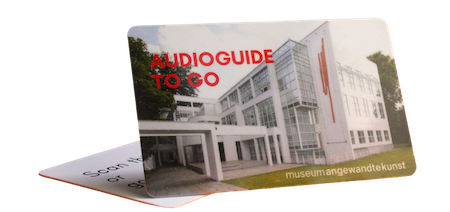
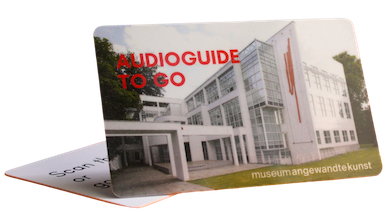
flotaing guide size fixed

Changed region(s): [[0.0, 0.0849, 0.9948, 0.9906]]

diff --git a/on-site-campus-tours-guide.html b/on-site-campus-tours-guide.html
@@ -94,9 +94,7 @@
 
     <!-- ./Icons 	-->
 
-    <!-- Google Fonts -->
-    <!--<link href="https://fonts.googleapis.com/css?family=Open+Sans:300,300i,400,400i,600,600i,700,700i|Raleway:300,300i,400,400i,500,500i,600,600i,700,700i|Poppins:300,300i,400,400i,500,500i,600,600i,700,700i"
-          rel="stylesheet">-->
+
 
     <!-- Vendor CSS Files -->
     <link href="assets/vendor/aos/aos.css" rel="stylesheet">
@@ -109,6 +107,7 @@
 
     <!-- Template Main CSS File -->
     <link href="assets/css/style-min.css" rel="stylesheet">
+    <link href="assets/css/custom.css" rel="stylesheet">
 
     <!-- =======================================================
     * Template Name: Dewi - v4.6.0
@@ -189,21 +188,7 @@
 
     </div>
 </header><!-- End Header -->
-<!-- ======= Breadcrumbs ======= -->
-<section class="breadcrumbs">
-    <div class="container">
 
-        <div class="d-flex justify-content-between align-items-center">
-            <h2>Audio guides for on-site campus tours</h2>
-            <ol>
-                <li><a href="index.html">Home</a></li>
-                <li>On-site campus tours</li>
-            </ol>
-        </div>
-
-    </div>
-</section><!-- End Breadcrumbs -->
-<!-- ======= About Section ======= -->
 <!-- Request a sample-button only visible in smartphones -->
 <section class="d-lg-none">
 
@@ -217,16 +202,34 @@
     </div>
 </section>
 <!-- End Request a sample-button only visible in smartphones  -->
+<!-- ======= Hero Section ======= -->
+<section id="hero3">
+    <div class="hero-container" data-aos="fade-up" data-aos-delay="150">
 
+        <h1>Digital campus tour guide
+        </h1>
+        <h2>College tour card for in-person campus visits</h2>
+
+        <div class="d-flex">
+
+            <a href="https://vimeo.com/714924523" class="glightbox btn-watch-video"><i class="bi bi-play-circle"></i><span>Watch the video</span></a>
+
+        </div>
+        <br><br><br>
+        <div class="align-center d-none d-lg-block">
+            <img src="assets/img/audioguide-campus.png"  width="400" height="350" alt="Nubart's Internet-based tour guide system for plant, facility and factory tours">
+        </div>
+    </div>
+</section><!-- End Hero -->
+<!-- ======= About Section ======= -->
 <section id="about" class="about">
     <div class="container" data-aos="fade-up">
 
         <div class="row">
 
             <div class="col-lg-6 video-box align-self-baseline" data-aos="zoom-in" data-aos-delay="100">
-                <br>
-                <img src="assets/img/web-campus.jpg" class="img-fluid" alt="">
-
+                <br> <img src="assets/img/web-campus.jpg" class="img-fluid" alt="">
+                <a href="https://vimeo.com/714924523" class="glightbox play-btn mb-4"></a>
             </div>
 
             <div class="col-lg-6 pt-3 pt-lg-0 content">

diff --git a/assets/css/custom.css b/assets/css/custom.css
@@ -432,6 +432,108 @@ a {
 }
 
 /*--------------------------------------------------------------
+# Hero Section for Campus tours
+--------------------------------------------------------------*/
+#hero3 {
+  width: 100%;
+  height: 100vh;
+  background: url("/assets/img/hero3-bg.jpg") top center;
+  background-size: cover;
+  position: relative;
+  padding: 0;
+}
+#hero3:before {
+  content: "";
+  background: rgba(13, 20, 26, 0.5);
+  position: absolute;
+  bottom: 0;
+  top: 0;
+  left: 0;
+  right: 0;
+}
+#hero3 .hero-container {
+  position: absolute;
+  bottom: 0;
+  top: 0;
+  left: 0;
+  right: 0;
+  display: flex;
+  justify-content: center;
+  align-items: center;
+  flex-direction: column;
+  text-align: center;
+}
+#hero3 h1 {
+  margin: 0 0 10px 0;
+  font-size: 48px;
+  font-weight: 700;
+  line-height: 56px;
+  text-transform: uppercase;
+  color: #fff;
+}
+#hero3 h2 {
+  color: #eee;
+  margin-bottom: 50px;
+  font-size: 24px;
+}
+#hero3 .btn-get-started {
+  font-family: "Open Sans", sans-serif;
+  text-transform: uppercase;
+  font-weight: 500;
+  font-size: 14px;
+  display: inline-block;
+  padding: 10px 35px 10px 35px;
+  border-radius: 4px;
+  transition: 0.5s;
+  color: #fff;
+  background: #53D3C5;
+  border: 2px solid #53D3C5;
+}
+#hero3 .btn-get-started:hover {
+  border-color: #fff;
+  background: rgba(255, 255, 255, 0.1);
+}
+#hero3 .btn-watch-video {
+  font-size: 16px;
+  display: inline-block;
+  transition: 0.5s;
+    margin-right: 8px;
+  margin-left: 15px;
+  color: #fff;
+  display: inline-flex;
+  align-items: center;
+  justify-content: center;
+}
+#hero3 .btn-watch-video i {
+  line-height: 0;
+  color: #fff;
+  font-size: 32px;
+  transition: 0.3s;
+  margin-right: 8px;
+  margin-left: 25px;
+}
+#hero3 .btn-watch-video:hover i {
+  color: #53D3C5;
+}
+@media (min-width: 1024px) {
+  #hero {
+    background-attachment: fixed;
+  }
+}
+@media (max-width: 768px) {
+  #hero3 h1 {
+    font-size: 28px;
+    line-height: 36px;
+  }
+  #hero3 h2 {
+    font-size: 18px;
+    line-height: 24px;
+    margin-bottom: 30px;
+  }
+}
+
+
+/*--------------------------------------------------------------
 # New color for buttons: dark Nubart turquoise
 --------------------------------------------------------------*/
 .btn-nubartdark {

diff --git a/ja/index.html b/ja/index.html
@@ -180,7 +180,7 @@
             <a href="../ja/quote-samples.html" class="btn-get-started scrollto"> 見積もりやサンプルの依頼</a>
         </div>
         <div class="align-self-start d-none d-lg-block">
-            <img src="../assets/img/audioguide-to-go.png" class="img-fluid float-end" alt="Nubartのオーディオガイドカードをお持ち帰りいただけます。">
+            <img src="../assets/img/audioguide-to-go.png" width="386" height="212" alt="Nubartのオーディオガイドカードをお持ち帰りいただけます。">
         </div>
     </div>
 </section><!-- End Hero -->

diff --git a/es/sistema-visita-guiada-fabricas.html b/es/sistema-visita-guiada-fabricas.html
@@ -209,7 +209,7 @@
         </div>
         <br><br><br>
         <div class="align-center d-none d-lg-block">
-            <img src="../assets/img/audioguide-factories.png" class="img-fluid float-end" alt="Solución digital de audio para visitas guiadas a fábricas, plantas y centros de producción">
+            <img src="../assets/img/audioguide-factories.png" width="400" height="272" alt="Solución digital de audio para visitas guiadas a fábricas, plantas y centros de producción">
         </div>
     </div>
 </section><!-- End Hero -->

diff --git a/de/personen-fuehrungsanlagen-werksbesichtigung.html b/de/personen-fuehrungsanlagen-werksbesichtigung.html
@@ -202,7 +202,7 @@
         </div>
         <br><br><br><br>
         <div class="align-center d-none d-lg-block">
-            <img src="../assets/img/audioguide-factories.png" class="img-fluid float-end" alt="Nubarts Internet-basierte Personenführungsanlage für Betriebs- und Werksbesichtigungen">
+            <img src="../assets/img/audioguide-factories.png" width="400" height="272" alt="Nubarts Internet-basierte Personenführungsanlage für Betriebs- und Werksbesichtigungen">
         </div>
     </div>
 </section><!-- End Hero -->

diff --git a/it/index.html b/it/index.html
@@ -219,7 +219,7 @@
             <a href="../it/prezzo-campione.html" class="btn-get-started scrollto">Richiedi preventivo o campioni</a>
         </div>
         <div class="align-self-start d-none d-lg-block">
-            <img src="../assets/img/audioguide-to-go.png" class="img-fluid float-end" alt="Una card audioguida Nubart da portare con te">
+            <img src="../assets/img/audioguide-to-go.png" width="386" height="212" alt="Una card audioguida Nubart da portare con te">
         </div>
     </div>
 </section><!-- End Hero -->

diff --git a/es/index.html b/es/index.html
@@ -220,7 +220,7 @@
             <a href="../es/precio-muestras.html" class="btn-get-started scrollto">Solicita muestras o presupuesto</a>
         </div>
         <div class="align-self-start d-none d-lg-block">
-            <img src="../assets/img/audioguide-to-go.png" class="img-fluid float-end" alt="Una tarjeta audioguía Nubart para llevar">
+            <img src="../assets/img/audioguide-to-go.png" width="386" height="212" alt="Una tarjeta audioguía Nubart para llevar">
         </div>
     </div>
 </section><!-- End Hero -->

diff --git a/de/index.html b/de/index.html
@@ -202,7 +202,7 @@
             <a href="../de/preise-musterkarten.html" class="btn-get-started scrollto"> Musterkärtchen / Angebot anfordern</a>
         </div>
         <div class="align-self-start d-none d-lg-block">
-            <img src="../assets/img/audioguide-to-go.png" class="img-fluid float-end" alt="A Nubart audioguide card to go">
+            <img src="../assets/img/audioguide-to-go.png" width="386" height="212" alt="A Nubart audioguide card to go">
         </div>
     </div>
 </section><!-- End Hero -->

diff --git a/fr/index.html b/fr/index.html
@@ -215,7 +215,7 @@
             <a href="../fr/prix-echantillons.html" class="btn-get-started scrollto">Demander des échantillons ou un devis</a>
         </div>
         <div class="align-self-start d-none d-lg-block">
-            <img src="../assets/img/audioguide-to-go.png" class="img-fluid float-end" alt="A Nubart audioguide card to go">
+            <img src="../assets/img/audioguide-to-go.png" width="386" height="212" alt="A Nubart audioguide card to go">
         </div>
     </div>
 </section><!-- End Hero -->

diff --git a/es/tours-barcos-buses.html b/es/tours-barcos-buses.html
@@ -210,7 +210,7 @@
         </div>
         <br><br><br>
         <div class="align-center d-none d-lg-block">
-            <img src="../assets/img/audioguide-boats.png" class="img-fluid float-end" alt="Solución digital de audioguía para rutas y excursiones en barco y en autobús">
+            <img src="../assets/img/audioguide-boats.png" cwidth="400" height="268"  alt="Solución digital de audioguía para rutas y excursiones en barco y en autobús">
         </div>
     </div>
 </section><!-- End Hero -->

diff --git a/tour-guide-system-factory-tours.html b/tour-guide-system-factory-tours.html
@@ -198,7 +198,7 @@
         </div>
         <br><br><br>
         <div class="align-center d-none d-lg-block">
-            <img src="assets/img/audioguide-factories.png" class="img-fluid float-end" alt="Nubart's Internet-based tour guide system for plant, facility and factory tours">
+            <img src="assets/img/audioguide-factories.png" width="400" height="272" alt="Nubart's Internet-based tour guide system for plant, facility and factory tours">
         </div>
     </div>
 </section><!-- End Hero -->

diff --git a/it/percorsi-navi-autobus.html b/it/percorsi-navi-autobus.html
@@ -203,7 +203,7 @@
         </div>
         <br><br><br>
         <div class="align-center d-none d-lg-block">
-            <img src="../assets/img/audioguide-boats.png" class="img-fluid float-end" alt="Soluzione di audioguida digitale per tour ed escursioni in barca e in autobus">
+            <img src="../assets/img/audioguide-boats.png" width="400" height="268"  alt="Soluzione di audioguida digitale per tour ed escursioni in barca e in autobus">
         </div>
     </div>
 </section><!-- End Hero -->
